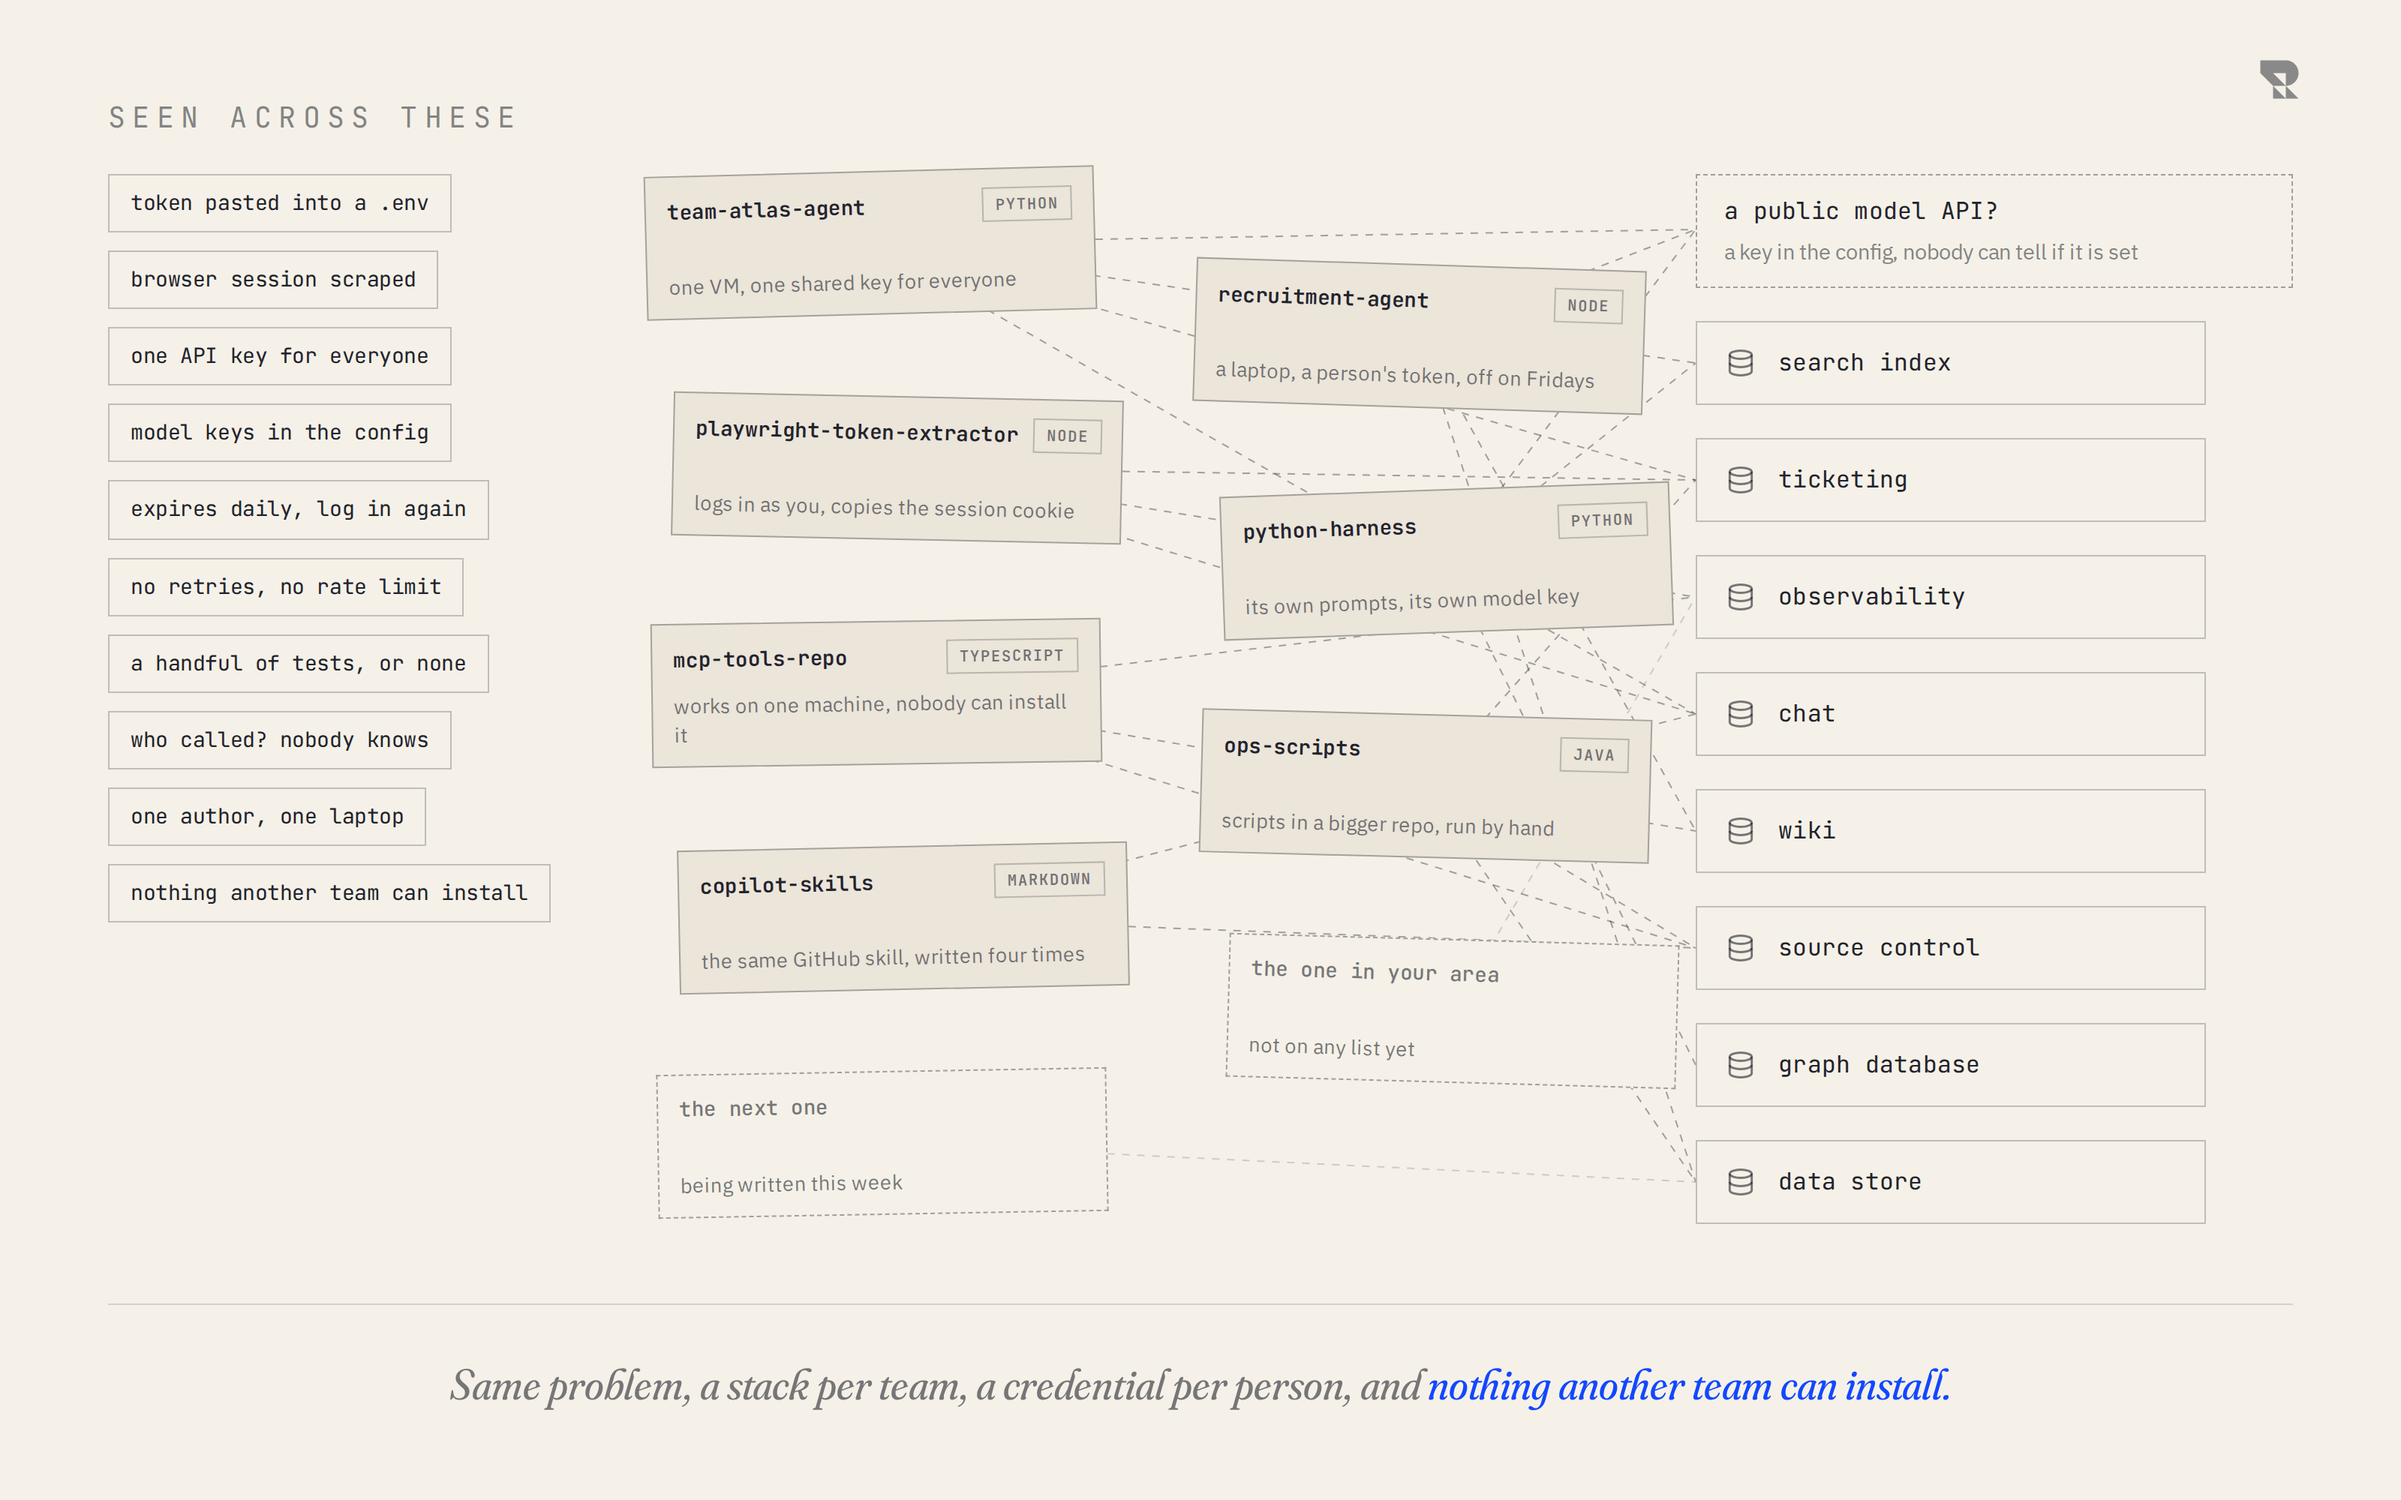
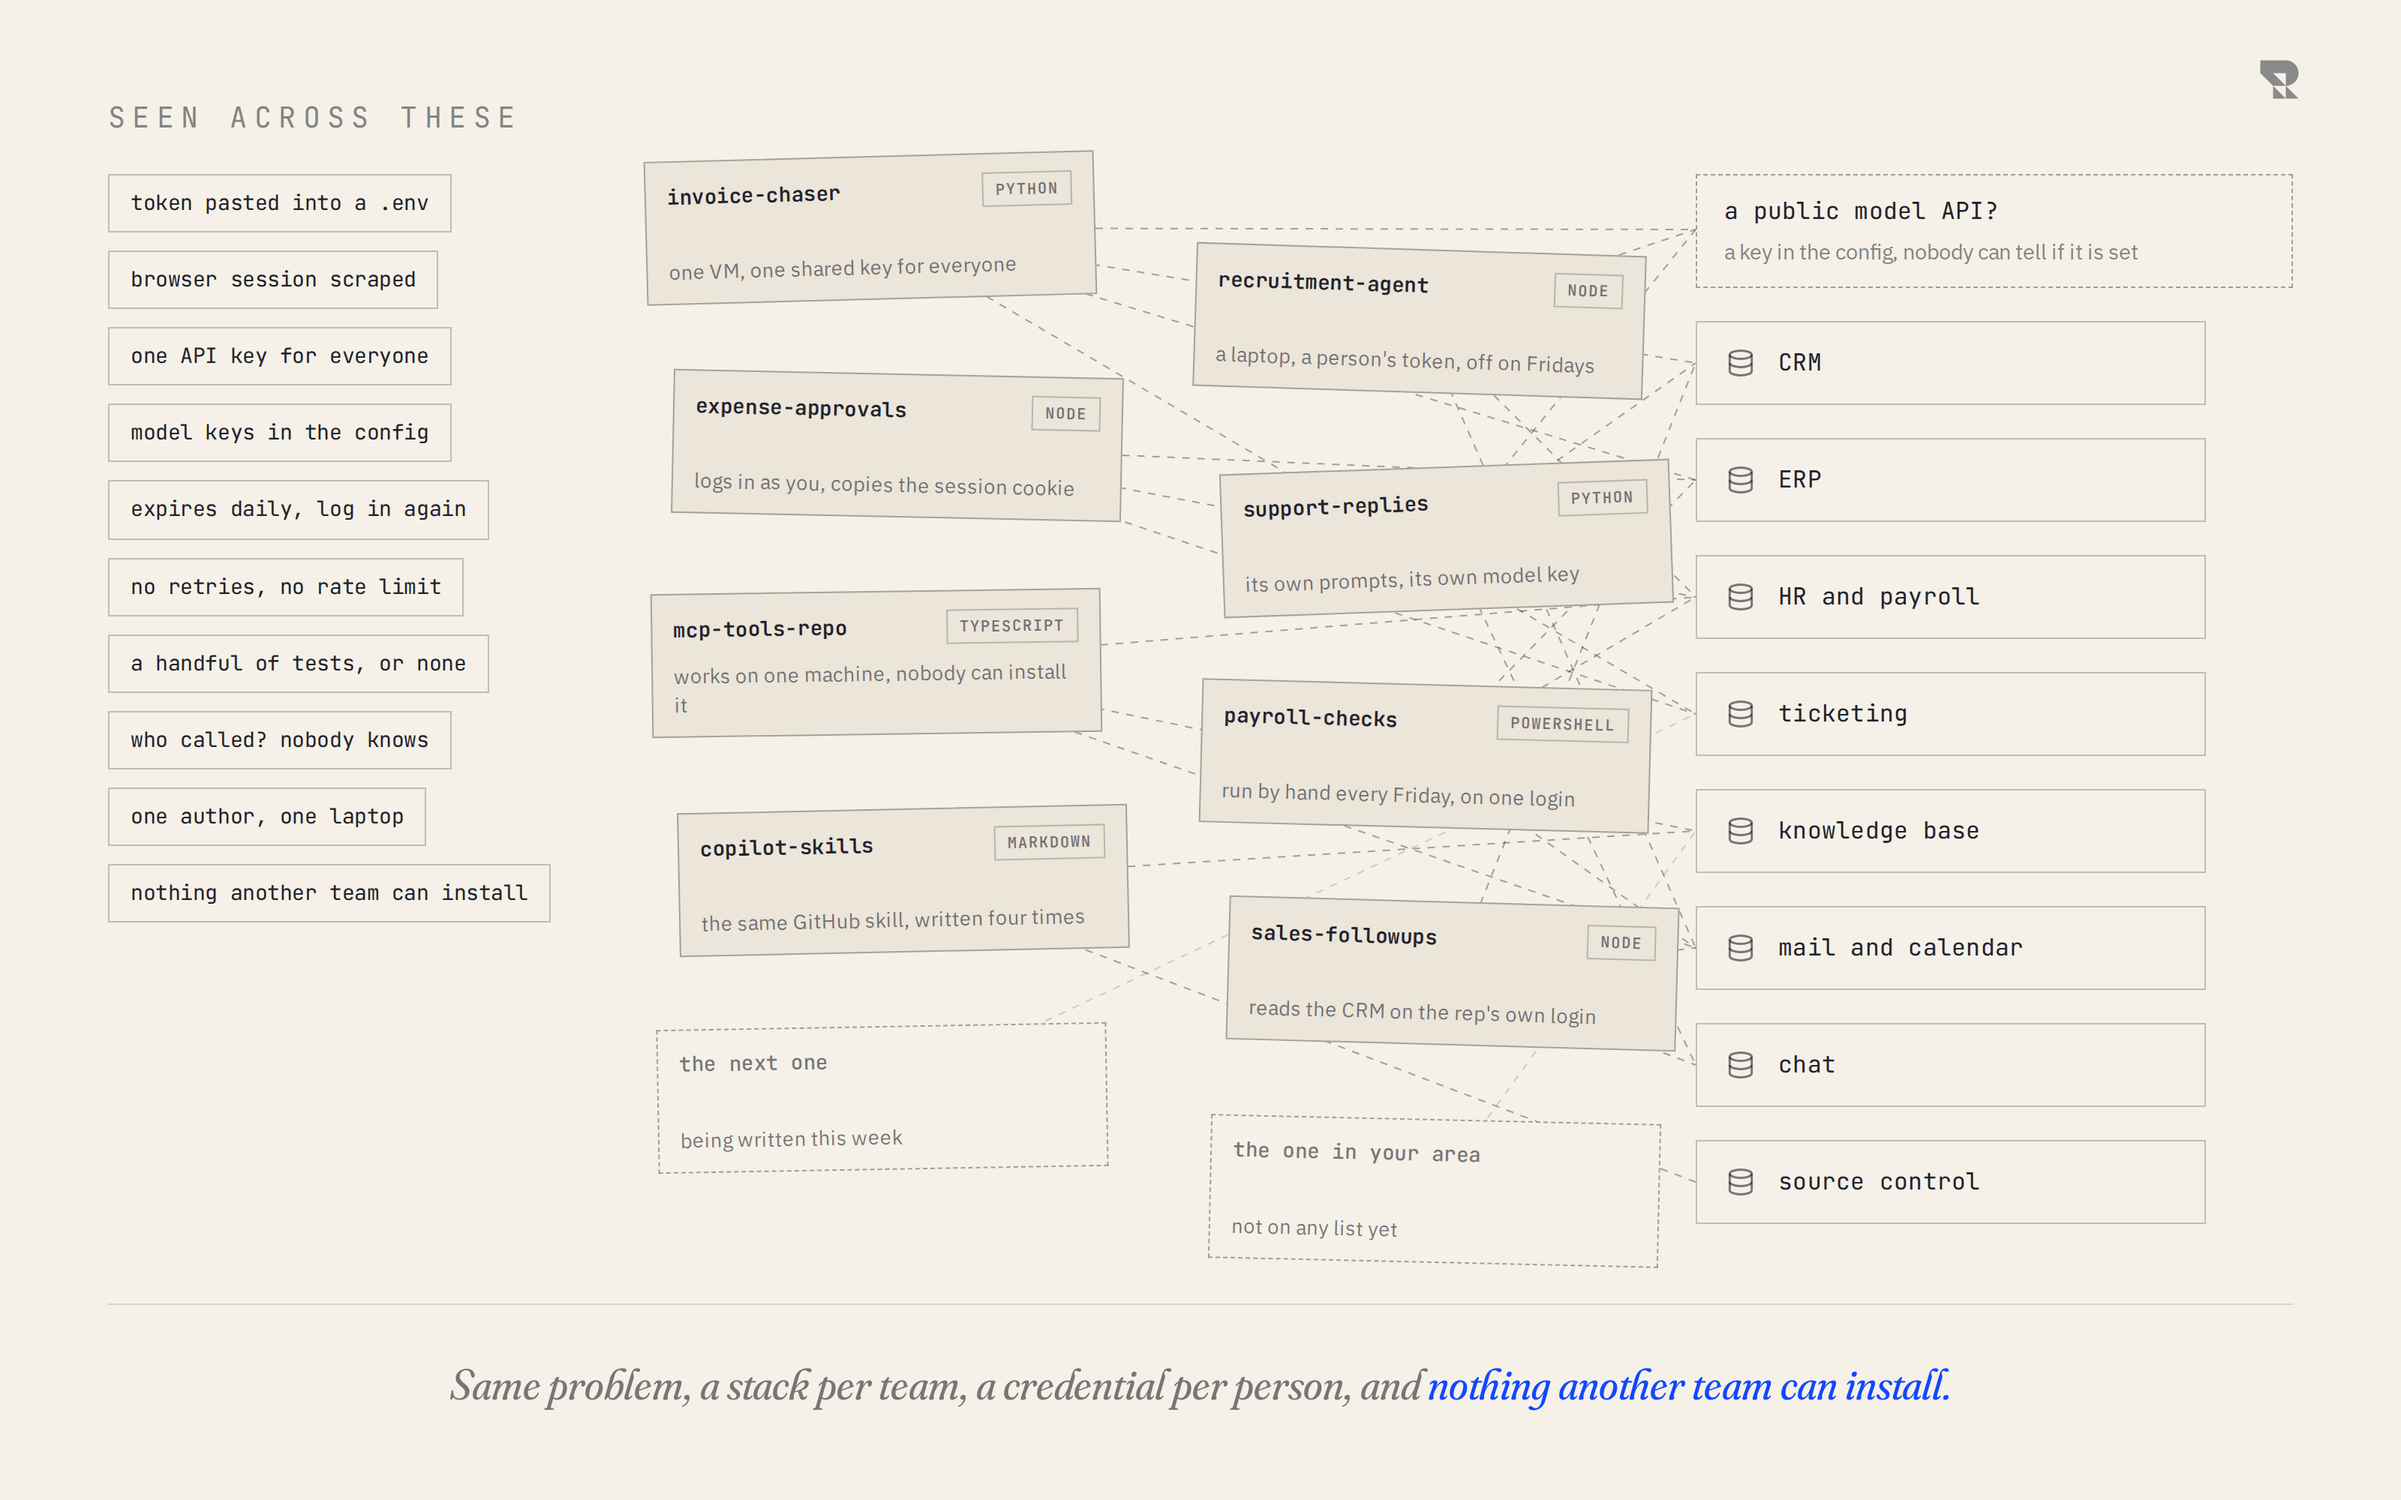
fix(site): draw the chaos figure as business builds, not ops
The public picture must not read as any one customer's ops team. The
pile is now invoices, recruitment, expenses, support, payroll and sales
beside the two engineering builds, and the column it wires into is the
same business systems the platform figure and the film draw. The film's
one Ops folder becomes Finance for the same reason.

diff --git a/apps/routecraft.dev/app/components/figures/every-team-builds-its-own.tsx b/apps/routecraft.dev/app/components/figures/every-team-builds-its-own.tsx
@@ -54,11 +54,11 @@ interface TeamCard {
 
 const CARDS: TeamCard[] = [
   {
-    name: 'team-atlas-agent',
+    name: 'invoice-chaser',
     lang: 'Python',
     line: 'one VM, one shared key for everyone',
     left: 358,
-    top: 50,
+    top: 40,
     tilt: -1.5,
   },
   {
@@ -66,23 +66,23 @@ const CARDS: TeamCard[] = [
     lang: 'Node',
     line: "a laptop, a person's token, off on Fridays",
     left: 724,
-    top: 112,
+    top: 102,
     tilt: 1.8,
   },
   {
-    name: 'playwright-token-extractor',
+    name: 'expense-approvals',
     lang: 'Node',
     line: 'logs in as you, copies the session cookie',
     left: 376,
-    top: 200,
+    top: 185,
     tilt: 1.2,
   },
   {
-    name: 'python-harness',
+    name: 'support-replies',
     lang: 'Python',
     line: 'its own prompts, its own model key',
     left: 742,
-    top: 262,
+    top: 247,
     tilt: -2,
   },
   {
@@ -90,15 +90,15 @@ const CARDS: TeamCard[] = [
     lang: 'TypeScript',
     line: 'works on one machine, nobody can install it',
     left: 362,
-    top: 350,
+    top: 330,
     tilt: -0.8,
   },
   {
-    name: 'ops-scripts',
-    lang: 'Java',
-    line: 'scripts in a bigger repo, run by hand',
+    name: 'payroll-checks',
+    lang: 'PowerShell',
+    line: 'run by hand every Friday, on one login',
     left: 728,
-    top: 412,
+    top: 392,
     tilt: 1.5,
   },
   {
@@ -106,36 +106,45 @@ const CARDS: TeamCard[] = [
     lang: 'Markdown',
     line: 'the same GitHub skill, written four times',
     left: 380,
-    top: 500,
+    top: 475,
     tilt: -1.2,
   },
   {
-    name: 'the one in your area',
-    line: 'not on any list yet',
+    name: 'sales-followups',
+    lang: 'Node',
+    line: "reads the CRM on the rep's own login",
     left: 746,
-    top: 562,
+    top: 537,
     tilt: 1.6,
-    ghost: true,
   },
   {
     name: 'the next one',
     line: 'being written this week',
     left: 366,
-    top: 650,
+    top: 620,
     tilt: -1,
+    ghost: true,
+  },
+  {
+    name: 'the one in your area',
+    line: 'not on any list yet',
+    left: 734,
+    top: 682,
+    tilt: 1.3,
     ghost: true,
   },
 ]
 
+/** The same business systems the platform figure and the film draw. */
 const BACKENDS = [
-  'search index',
+  'CRM',
+  'ERP',
+  'HR and payroll',
   'ticketing',
-  'observability',
+  'knowledge base',
+  'mail and calendar',
   'chat',
-  'wiki',
   'source control',
-  'graph database',
-  'data store',
 ]
 
 /** Left edge of the backend column, where every wire lands. */
@@ -151,15 +160,16 @@ interface Wire {
 }
 
 const WIRES: Wire[] = [
-  { from: [508, 98], to: [178, 256, 412, 89] },
-  { from: [874, 160], to: [490, 724, 89] },
-  { from: [526, 248], to: [256, 334, 412] },
-  { from: [892, 310], to: [89, 178, 646] },
-  { from: [512, 398], to: [568, 490, 334] },
-  { from: [878, 460], to: [568, 724, 256] },
-  { from: [530, 548], to: [568, 412] },
-  { from: [896, 610], to: [334], faint: true },
-  { from: [516, 698], to: [724], faint: true },
+  { from: [508, 88], to: [178, 256, 412, 89] },
+  { from: [874, 150], to: [334, 568, 89] },
+  { from: [526, 233], to: [256, 334, 412] },
+  { from: [892, 295], to: [89, 178, 646] },
+  { from: [512, 378], to: [568, 490, 334] },
+  { from: [878, 440], to: [334, 256, 568] },
+  { from: [530, 523], to: [724, 490] },
+  { from: [896, 585], to: [178, 568, 646] },
+  { from: [516, 668], to: [412], faint: true },
+  { from: [884, 730], to: [490], faint: true },
 ]
 
 function Card({ card, palette }: { card: TeamCard; palette: FigurePalette }) {

diff --git a/apps/routecraft.dev/app/components/film/timeline.ts b/apps/routecraft.dev/app/components/film/timeline.ts
@@ -224,7 +224,7 @@ export const BOARD: BoardCard[] = [
   {
     kind: 'py',
     name: 'sync_crm.py',
-    line: 'SharePoint › Ops › scripts',
+    line: 'SharePoint › Finance › scripts',
     note: 'runs when someone remembers',
     x: 140,
     y: 280,
